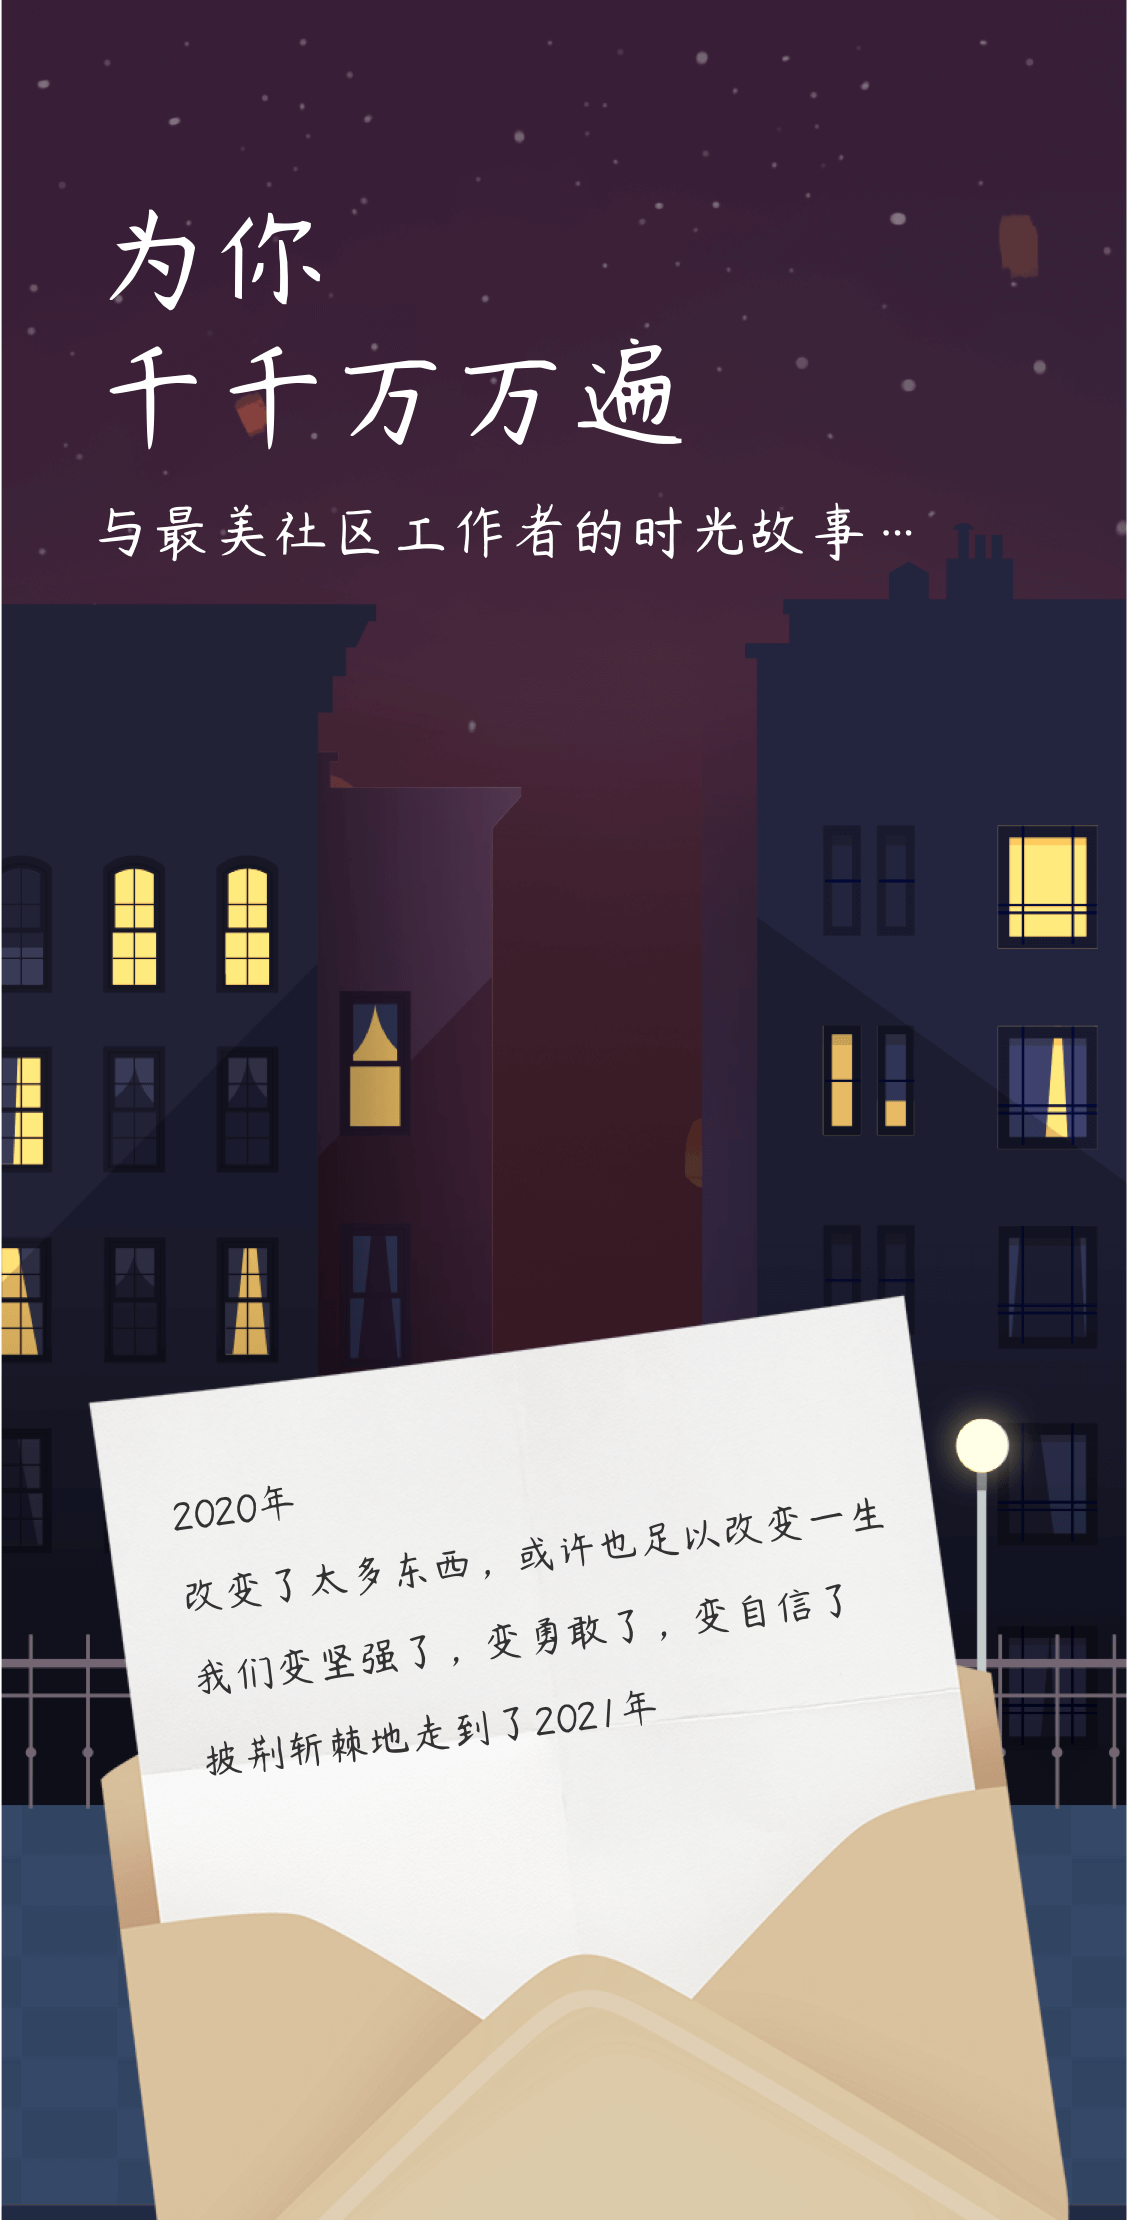
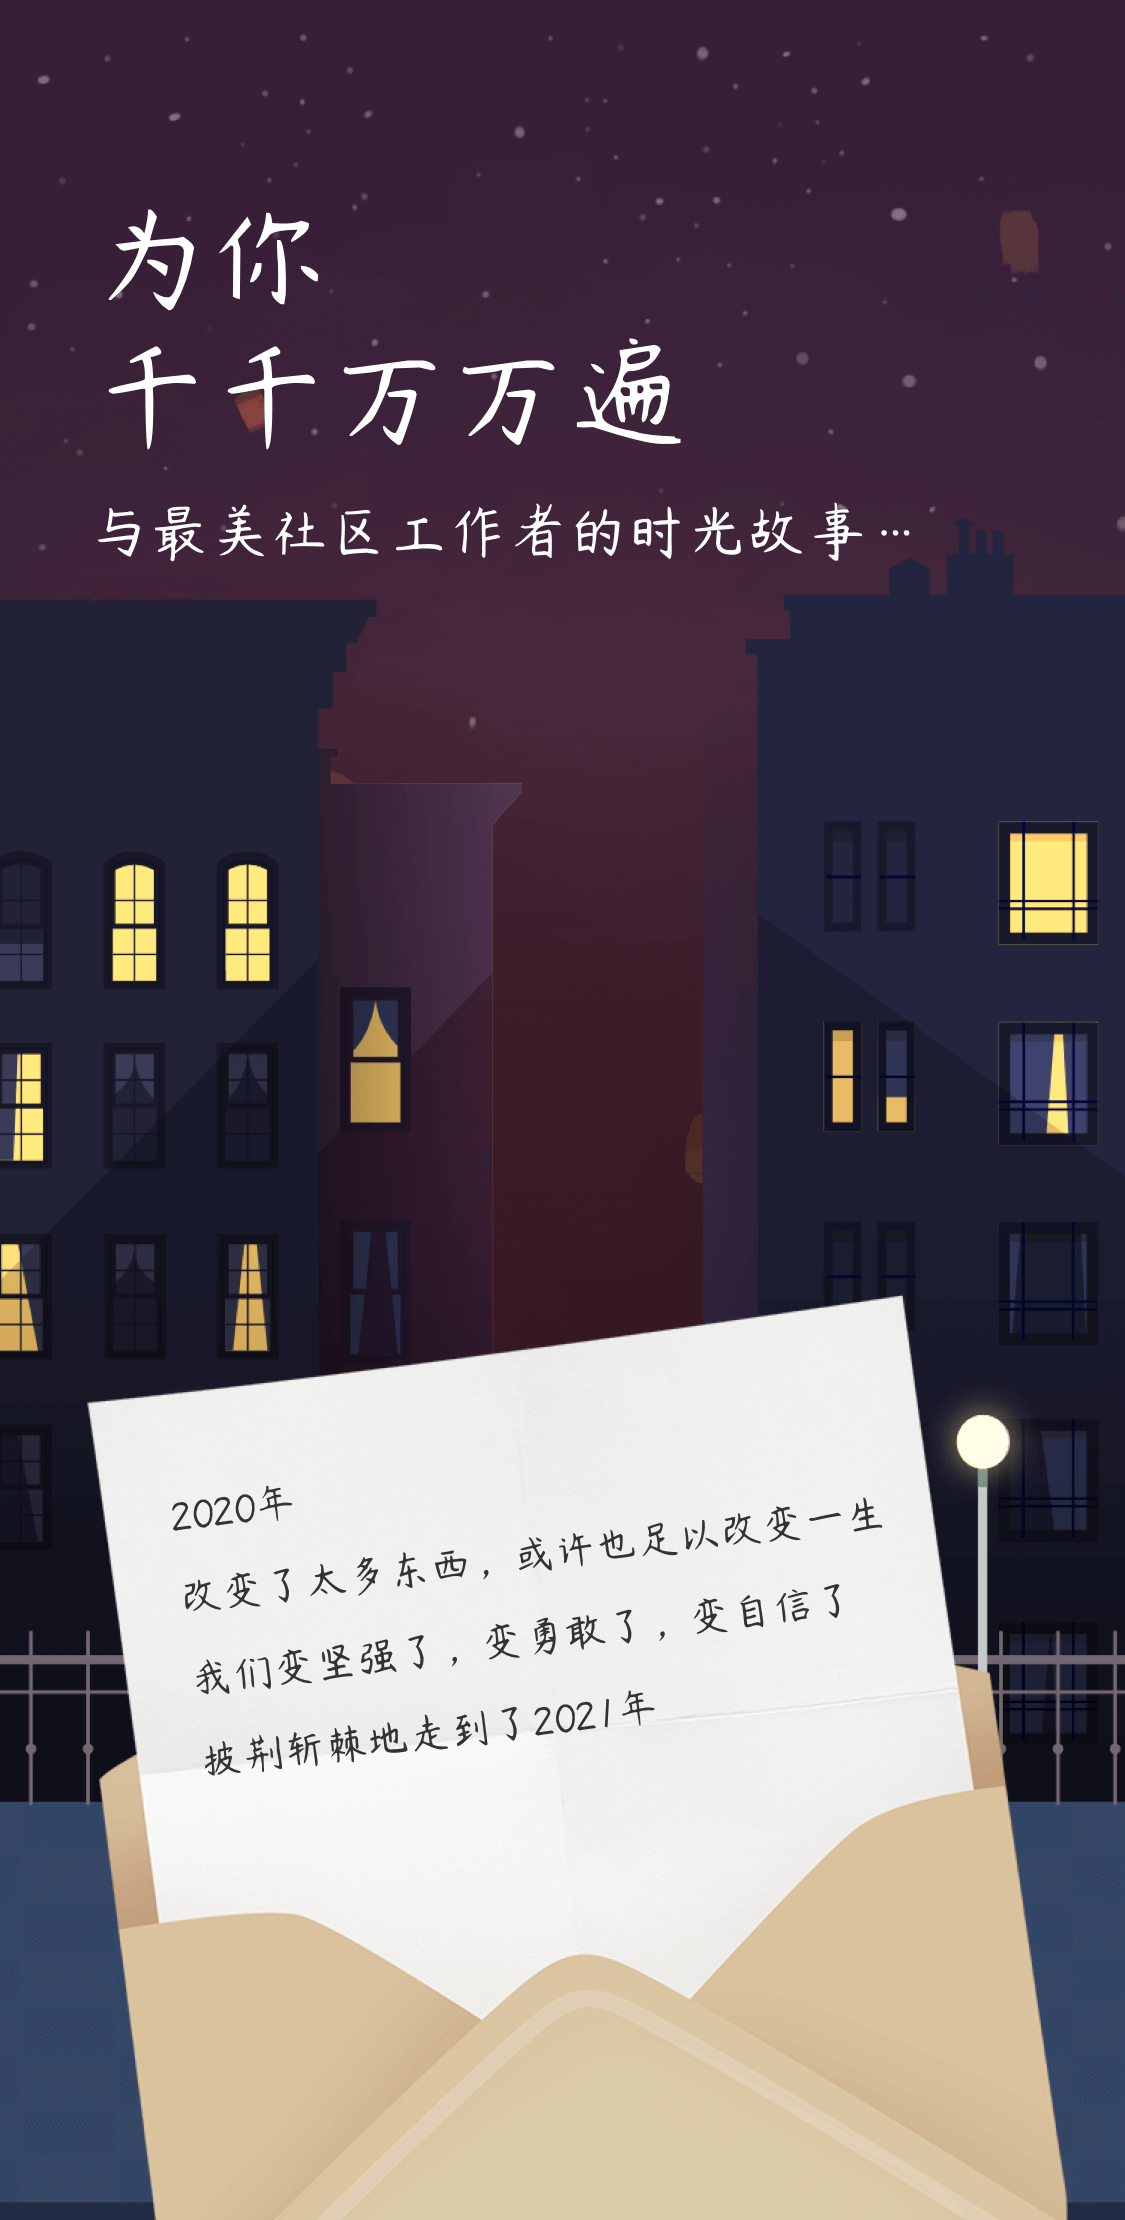
样式调整

diff --git a/static/pageH5/yearStatPage.html b/static/pageH5/yearStatPage.html
@@ -155,6 +155,7 @@
         let date = time.getDate();
         let hour = time.getHours();
         let minutes = time.getMinutes();
+        let timeRange = '';
 
         if (month < 10) {
           month = "0" + month;
@@ -162,13 +163,22 @@
         if (date < 10) {
           date = "0" + date;
         }
+        if(hour < 6) {
+          timeRange = '凌晨的';
+        } else if(hour < 12) {
+          timeRange = '';
+        } else if(hour < 18) {
+          timeRange = '下午的';
+        } else if(hour < 24) {
+          timeRange = '深夜的'
+        }
         if (hour < 10) {
           hour = "0" + hour;
         }
         if (minutes < 10) {
           minutes = "0" + minutes;
         }
-        result = [year + '年' + month + '月' + date + "日", hour + "时" + minutes + "分"];
+        result = [year + '年' + month + '月' + date + "日", hour + "时" + minutes + "分", timeRange];
       }
       return result;
     };
@@ -189,38 +199,12 @@
       mySwiper = new Swiper('.swiper-container', {
         on: {
           init: function (swiper) {
-            //Swiper初始化了
+            
           },
         },
         direction: 'vertical', // 垂直切换选项
         autoHeight: true, //高度随内容变化
-        // effect: 'coverflow',
-        effect: 'fade',
-        fadeEffect: {
-          crossFade: true,
-        },
-        initialSlide: 0,
-        slidesPerView: 1,
-        centeredSlides: false,
-        coverflowEffect: {
-          slideShadows: false
-        },
-        /* freeModeSticky: true,
-        watchOverflow: true,
-        parallax : true,
-        loop: true, // 循环模式选项
-        touchRatio : 0.5,  //滑动距离只有触摸距离的一半，变得难以滑动
-        autoplay: true, */
-
-        // 如果需要分页器
-        /* pagination: {
-          el: '.swiper-pagination',
-        }, */
-
-        // 如果需要滚动条
-        /* scrollbar: {
-          el: '.swiper-scrollbar',
-        }, */
+        slidesPerView: 'auto',
       })
 
       /* 
@@ -250,7 +234,7 @@
                 我们共同走过了 <span class="active">${data.registerDayCnt}</span> 个日日夜夜
 
                 过去的一年里，
-                深圳亲邻交互科技有限公司
+                ${data.asName||''}
                 增加了 <span class="active">${data.mediaIncrCnt}</span>  个新媒体
                 让客户有了更多展现品牌的机会`;
               htmlStr2 = `这一年
@@ -261,7 +245,7 @@
                 <span class="active">${data.mdOrderCnt}</span>  个广告正因有你的发布
                 才走向了千家万户
 
-                <span class="active">${data.offWorkTime[0]}</span>  凌晨的 <span class="active">${data.offWorkTime[1]}</span>
+                <span class="active">${data.offWorkTime[0]}</span>  ${data.offWorkTime[2]} <span class="active">${data.offWorkTime[1]}</span>
                 你还在坚持工作
                 我看见你的千锤百炼，等待你的惊鸿一现`;
             } else if (data.uType == 'EP') {
@@ -290,6 +274,8 @@
                 <span class="active">${data.offWorkTime[0]}</span>  凌晨的 <span class="active">${data.offWorkTime[1]}</span>
                 我看到你还在坚持
                 星光不问赶路人，时光不负有心人`;
+            } else {
+              alert("权限错误~");
             }
             $('.page1-text').html(htmlStr1);
             $('.page2-text').html(htmlStr2);

diff --git a/static/pageH5/styles.less b/static/pageH5/styles.less
@@ -1,3 +1,7 @@
+@font-face {
+  font-family: regular;
+  src: url('/static/pageH5/regular.ttf');
+}
 .px2rem(@name, @px) { 
   @{name}: @px / 100 * 1rem; 
 }
@@ -22,31 +26,6 @@
     @{name}: @px * 2px; 
   } 
 }
-@font-face {
-	font-family: regular;
-	src: url('/static/pageH5/regular.ttf');
-}
-* {
-  margin: 0;
-  padding: 0;
-  box-sizing: border-box;
-}
-
-html,
-body {
-  width: 100%;
-  height: 100%;
-  overflow: hidden;
-}
-
-body {
-  overflow-y: auto;
-}
-
-body::-webkit-scrollbar {
-  display: none;
-}
-
 /*通过伪元素缩放处理 1px 像素问题*/
 [viewpx] {
   position: relative;
@@ -76,6 +55,28 @@ body::-webkit-scrollbar {
   .px2rem (border-radius, 32);
   border: 1px solid #fff;
 }
+
+* {
+  margin: 0;
+  padding: 0;
+  box-sizing: border-box;
+}
+
+html,
+body {
+  width: 100%;
+  height: 100%;
+  overflow: hidden;
+}
+
+body {
+  overflow-y: auto;
+}
+
+body::-webkit-scrollbar {
+  display: none;
+}
+
 body {
   color: rgba(0,0,0,.5);
 }
@@ -173,11 +174,17 @@ body {
   .px2rem (width, 128);
   margin-top: 12px;
 }
-.content-text {
-  display: block;
-  line-height: 36px;
-  font-size: 20px;
-  white-space: nowrap;
+.swiper-slide.swiper-slide-active .page-content {
+  animation: fadeIn 2s 0s 1;
+}
+.swiper-slide.swiper-slide-active .thanks-img {
+  animation: fadeIn 2s 0s 1;
+}
+.swiper-slide.swiper-slide-active .thumbs-up-img {
+  animation: fadeIn 2s 0s 1;
+}
+.swiper-slide.swiper-slide-active .together-img {
+  animation: fadeIn 2s linear 0s 1;
 }
 .music-img.open {
   animation:turn 3s linear infinite;
@@ -201,48 +208,65 @@ body {
 
 @keyframes next{
   0% {
-    transform :translateY(-40px);
+    transform: rotate(180deg) translateY(-40px);
   }
   50% {
-    transform :translateY(10px);
+    transform: rotate(180deg) translateY(10px);
   }
   100% {
-    transform :translateY(-40px);
+    transform: rotate(180deg) translateY(-40px);
   }
 }
 
 @-moz-keyframes next{
   0% {
-    transform :translateY(-40px);
+    transform: rotate(180deg) translateY(-40px);
   }
   50% {
-    transform :translateY(10px);
+    transform: rotate(180deg) translateY(10px);
   }
   100% {
-    transform :translateY(-40px);
+    transform: rotate(180deg) translateY(-40px);
   }
 }
 
 @-webkit-keyframes next{
   0% {
-    transform :translateY(-40px);
+    transform: rotate(180deg) translateY(-40px);
   }
   50% {
-    transform :translateY(10px);
+    transform: rotate(180deg) translateY(10px);
   }
   100% {
-    transform :translateY(-40px);
+    transform: rotate(180deg) translateY(-40px);
   }
 }
 
 @-o-keyframes next{
   0% {
-    transform :translateY(-40px);
+    transform: rotate(180deg) translateY(-40px);
   }
   50% {
-    transform :translateY(10px);
+    transform: rotate(180deg) translateY(10px);
   }
   100% {
-    transform :translateY(-40px);
+    transform: rotate(180deg) translateY(-40px);
+  }
+}
+
+@keyframes fadeIn {
+  0% {
+    opacity: 0;
+  }
+  100% {
+    opacity: 1;
+  }
+}
+@-webkit-keyframes fadeIn {
+  0% {
+    opacity: 0;
+  }
+  100% {
+    opacity: 1;
   }
 }
